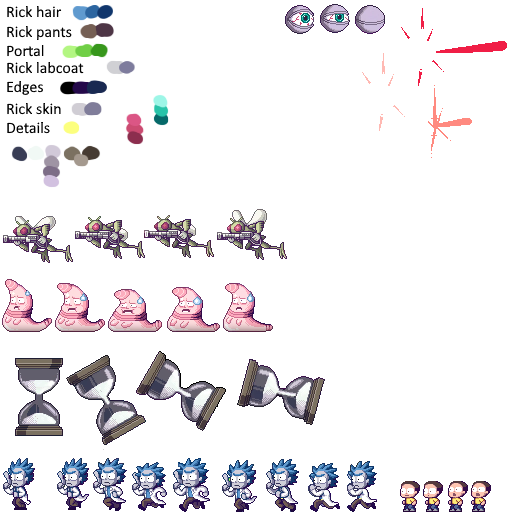
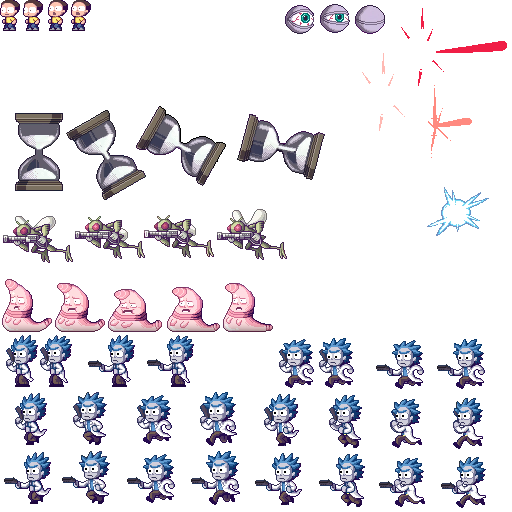
Updated asset sprites Typo fix in PlayerController

diff --git a/Assets/Scripts/PlayerController.cs b/Assets/Scripts/PlayerController.cs
@@ -67,7 +67,7 @@ public class PlayerController : Character {
 		if (Input.GetButtonDown("Fire1")) {
 			if (Input.GetMouseButtonDown(0)) {
 				Vector2 MousePos = Camera.main.ScreenToWorldPoint(Input.mousePosition);
-				FireGun((MousePos - (Vector2)transf7u7orm.position).normalized);
+				FireGun((MousePos - (Vector2)transform.position).normalized);
 			} else
 				FireGun(lookDir);
 		}
